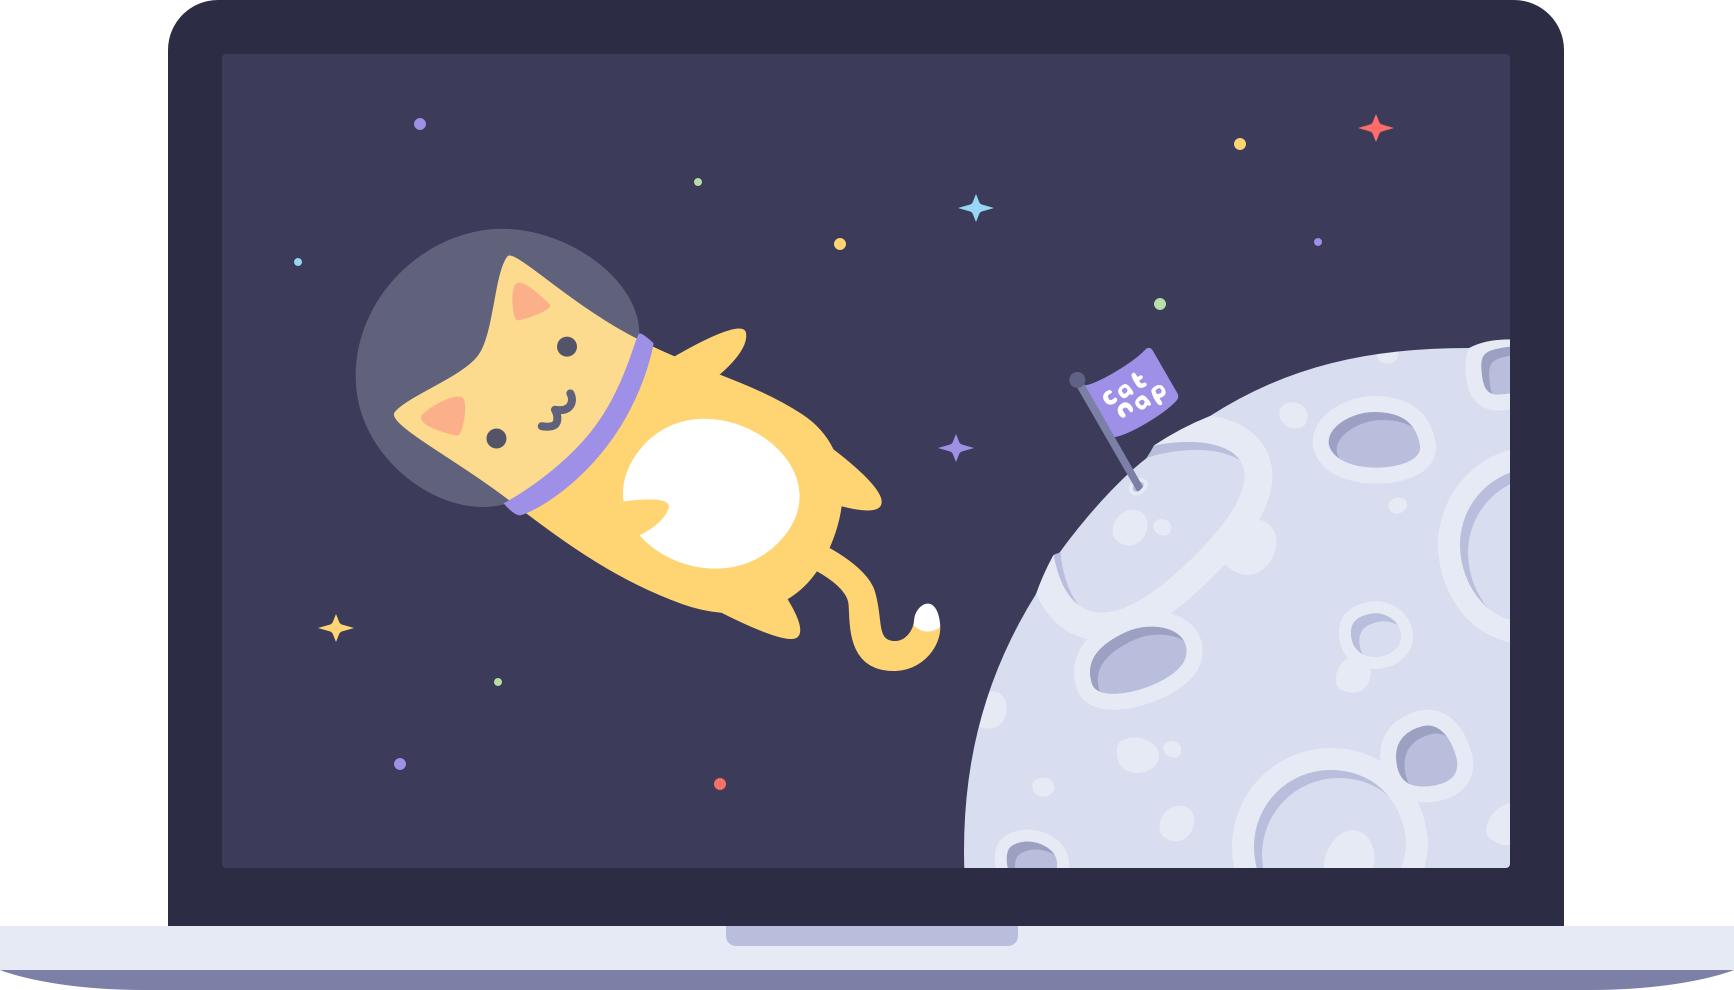
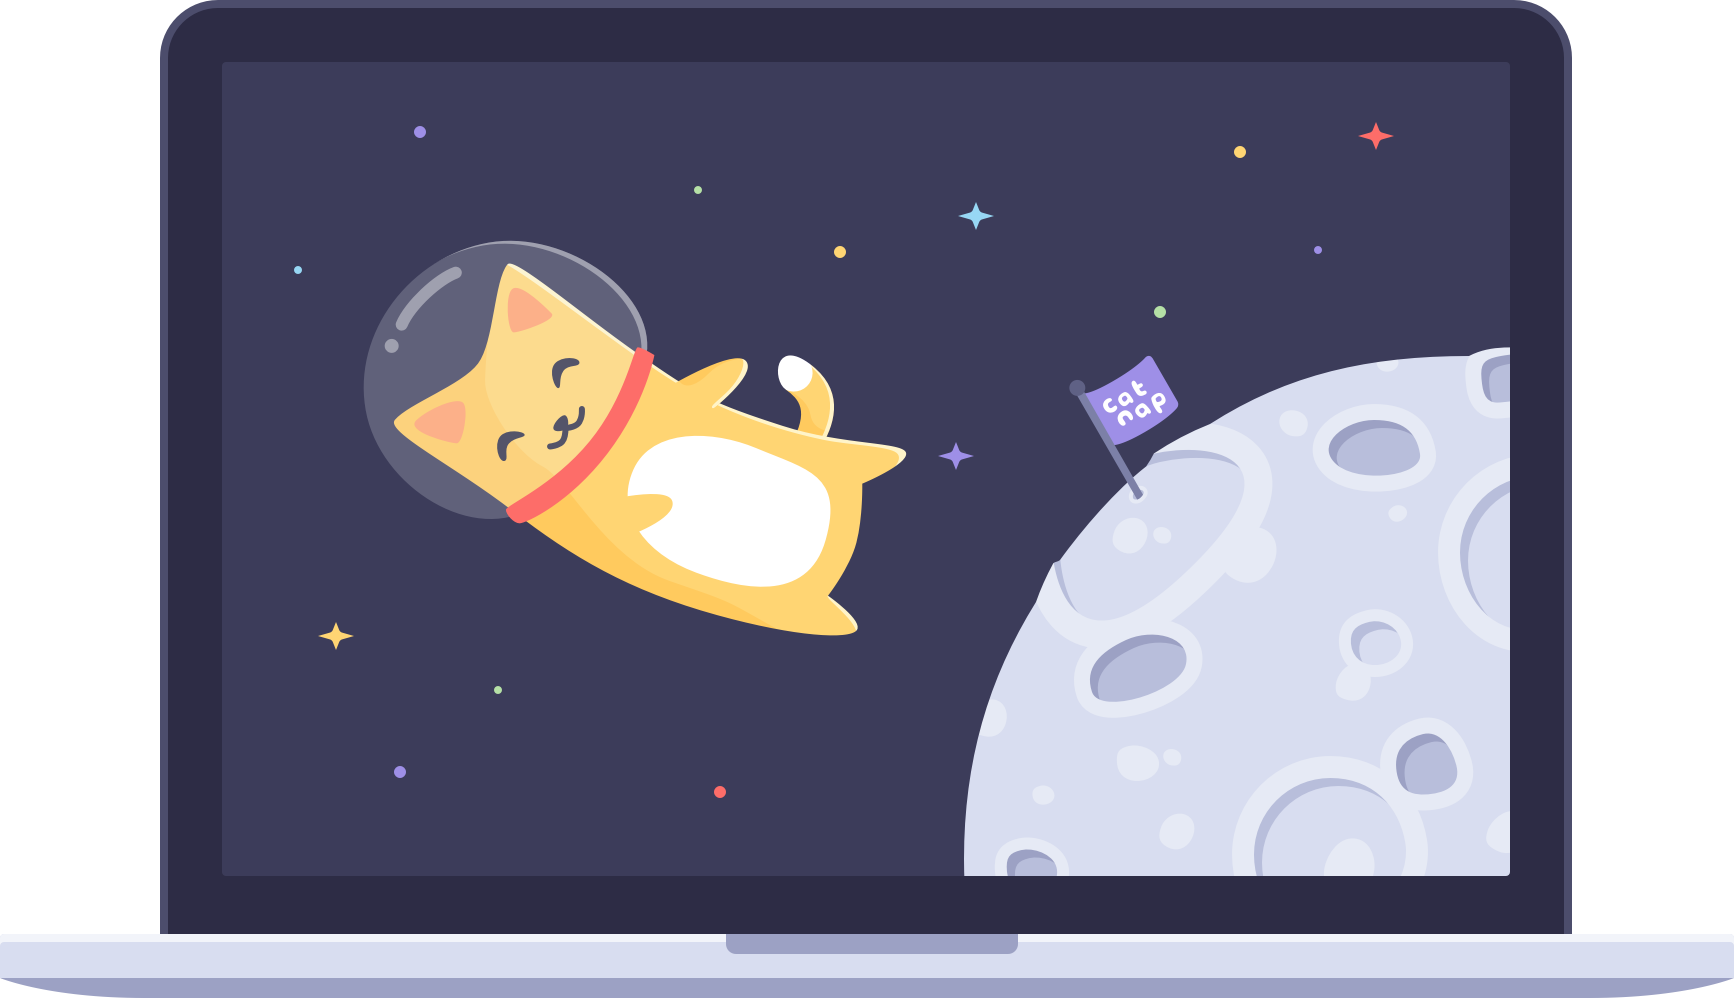
Updated hero illustration

diff --git a/assets/styles/styles.css b/assets/styles/styles.css
@@ -214,7 +214,7 @@ footer {
   text-shadow: 1px 1px 1px rgba(0, 0, 0, 0.1); }
 
 .hero-wrapper {
-  min-height: 477px;
+  min-height: 481px;
   padding-top: 70px; }
 
 .hero-header {

diff --git a/assets/styles/styles.scss b/assets/styles/styles.scss
@@ -23,7 +23,7 @@
 	text-shadow: 1px 1px 1px rgba(0,0,0,0.1);
 }
 .hero-wrapper {
-	min-height: 495px - 18px;
+	min-height: 499px - 18px;
 	padding-top: 70px;
 }
 .hero-header {
